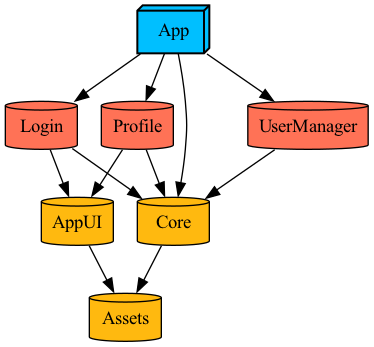
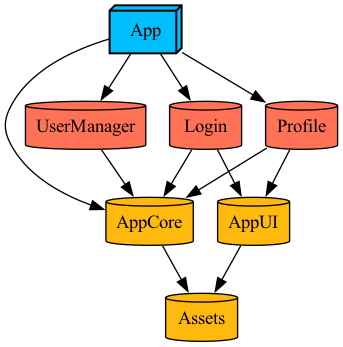
📝 Update docs

diff --git a/Documentation/ProjectArchitecture.md b/Documentation/ProjectArchitecture.md
@@ -2,22 +2,22 @@
 
 Our single app projects use the same basic module architecture and consist from the following base targets. 
 
-Basically any of the following modules can contain tests and "testing" code. For us "testing" code means any useful extensions and mock implementations that could be used for tests. To simplify usage of this testing code we have optional "Testing" folder under module's folder (that usually contains Sources and Tests folder) which is imported for debug configurations. This way we make sure this testing code never leaves dev machines.
+Basically any of the following modules can contain tests and "testing" code. For us "testing" code means any useful extensions and mock implementations that could be used for tests. To simplify usage of this testing code we have optional "Testing" folder under module's folder (that usually contains Sources and Tests folder) which is imported for debug configurations. This way we make sure this testing code never leaves dev machines, but it means that ocassionally project generation could fail if you make changes on disk and not in Tuist manifest, to fix that you should try running `tuist clean`.
 
-## Core
-Contains stuff that is shared basically throughout the whole project - models, extensions. Might be renamed based on your project name - _\<Project>Core_, _\<Project>\_Core_, depends on preferences of the dev team.
+## AppCore
+Contains stuff that is shared basically throughout the whole project - models, extensions. It is designed to be named this way without any project prefix.
 
-Most importantly it contains protocol interfaces **without any implementations**. In the [example project][example project] you can see [`UserManager`](/ProjectTemplate/Modules/Core/Sources/Protocols/UserManager.swift), that defines how user manager looks like and that's all of it. If we were really correct, we should rather have a module for that but sometimes it seems like too much effort that would significantly increase number of dynamic frameworks so this is our little compromise as basically all modules depend on Core. Of course you can do it your way 😎
+Most importantly it contains protocol interfaces **without any implementations**. Here you can see [`UserManager`](/Modules/Core/Sources/Protocols/UserManager.swift), that defines how user manager looks and that's all of it. If we were really correct, we should rather have a module for that but sometimes it seems like too much effort that would significantly increase number of dynamic frameworks so this is our little compromise as basically all modules depend on Core. Of course you can do it your way 😎
 
 ## AppUI
-Contains UI components that are shared throughout the app - button styles, text styles, colors, reused list cells, etc. By design this module does not depend on [Core](#core) as we prefer these view components to be just simple UI views.
+Contains UI components that are shared throughout the app - button styles, text styles, colors, reused list cells, etc. By design this module does not depend on [Core](#appcore) as we prefer these view components to be just simple UI views.
 
-It is a good idea to do some [snapshot tests](https://github.com/pointfreeco/swift-snapshot-testing) for your UI components 💡
+> 💡 It is a good idea to do some [snapshot tests](https://github.com/pointfreeco/swift-snapshot-testing) for your UI components
 
 ## Assets
-As mentioned in [AppUI](#appui), we prefer our views to be as simple as possible, therefore there isn't any relationship between [Core](#core) and [AppUI](#appui) modules. But still there might be some stuff you wanna share - icons, localizations. 
+As mentioned in [AppUI](#appui), we prefer our views to be as simple as possible, therefore there isn't any relationship between [Core](#appcore) and [AppUI](#appui) modules. But still there might be some stuff you wanna share - icons, localizations. 
 
-We have pretty good experience with having a single localization strings file (string catalog soon) and single asset catalog for the whole project - this way we can make sure that e.g. icons are not duplicated unless it is so by design. If you have a single strings file and wanna share it between [Core](#core) and [AppUI](#appui) modules, you need some module that will be linked to both and that's our Assets module. The use case for sharing icons and localizations between both modules is that you might wanna have some localized error messages in the [Core](#core) module, so it can be reused throughout the [App](#app) and you also might have a view with localized message in the [AppUI](#appui) module. This way you can do that.
+We have pretty good experience with having a single localization strings file (string catalog soon) and single asset catalog for the whole project - this way we can make sure that e.g. icons are not duplicated unless it is so by design. If you have a single strings file and wanna share it between [AppCore](#appcore) and [AppUI](#appui) modules, you need some module that will be linked to both and that's our Assets module. The use case for sharing icons and localizations between both modules is that you might wanna have some localized error messages in the [Core](#appcore) module, so it can be reused throughout the [App](#app) and you also might have a view with localized message in the [AppUI](#appui) module. This way you can do that.
 
 ## App
 Contains the final app, might be named _App_ or renamed based on project name, depends on preferences of devs working on it. Always contains our dependency injection container (just a struct with some protocol conformances) with implementations of required dependency protocols.
@@ -25,9 +25,9 @@ Contains the final app, might be named _App_ or renamed based on project name, d
 ## Feature & Service modules
 Then project contains various number of feature and service modules - in our example feature modules would be [Login][login] and [Profile][profile], service module would be [UserManager][usermanager module].
 
-In general such modules are static frameworks, service frameworks should always be static as no one except the [App](#app) should depend directly on them (you should depend on its interface protocol that is in our case part of the [Core](#core) module). This also improves compile time as to build [Profile][profile] module, I don't need to compile [UserManager][usermanager module] module and any of its dependencies, [Core](#core) is enough for it.
+In general such modules are static frameworks, service frameworks should always be static as no one except the [App](#app) should depend directly on them (you should depend on its interface protocol that is in our case part of the [AppCore](#appcore) module). This also improves compile time as to build [Profile][profile] module, I don't need to compile [UserManager][usermanager module] module and any of its dependencies, [AppCore](#appcore) is enough for it.
 
-This is module graph of the [example project][example project] where you can see how [Login][login] and [Profile][profile] modules have no dependency to [UserManager][usermanage module], they just depend on [Core](/TemplateProject/Modules/Core) module as it contains the interface for it. This allows [UserManager][usermanager module] module to stay static.
+This is module graph of project where you can see how [Login][login] and [Profile][profile] modules have no dependency to [UserManager][usermanager module], they just depend on [Core](/TemplateProject/Modules/Core) module as it contains the interface for it. This allows [UserManager][usermanager module] module to stay static.
 
 <p align="center">
   <img src="Resources/project_template_graph.png" alt="Project template graph"/>
@@ -35,7 +35,6 @@ This is module graph of the [example project][example project] where you can see
 
 Feature frameworks might be dynamic that depends on your case, but mostly you should be good with static frameworks.
 
-[example project]: /ProjectTemplate
-[usermanager module]: /ProjectTemplate/Modules/UserManager
-[profile]: ProjectTemplate/Modules/Profile/
-[login]: ProjectTemplate/Modules/Login
+[usermanager module]: /Modules/UserManager
+[profile]: /Modules/Profile/
+[login]: /Modules/Login
